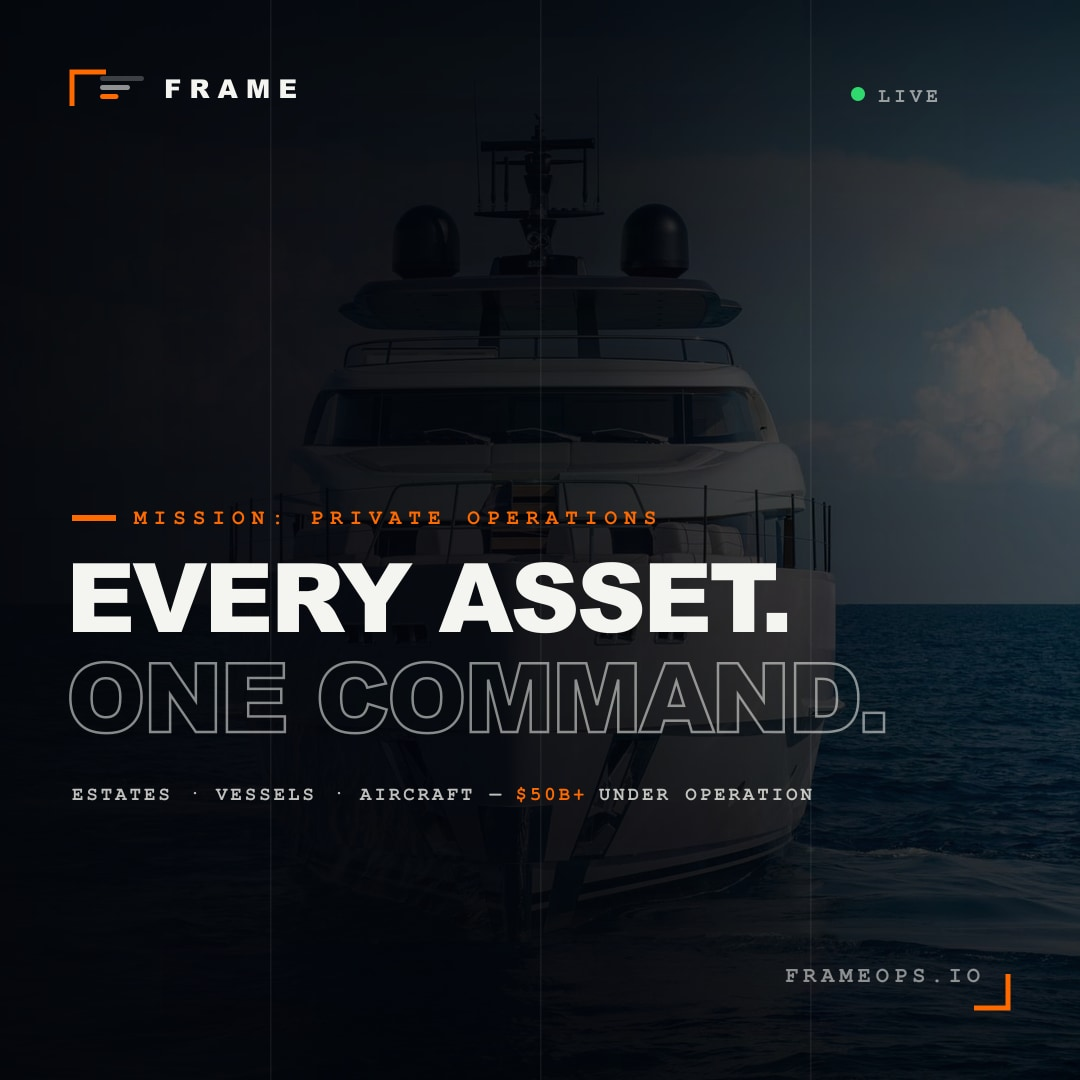
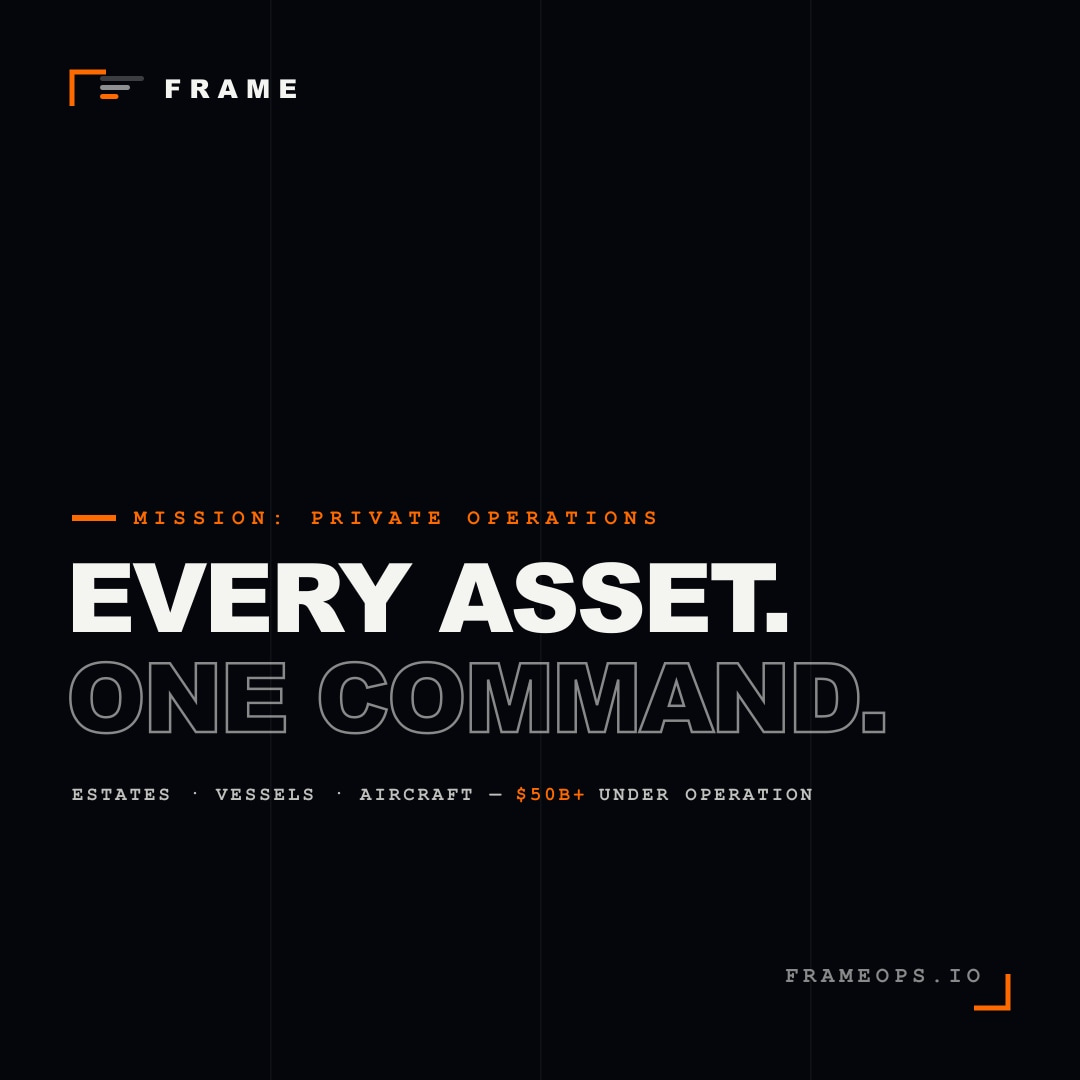
feat: all-black OG images — pure void, F-mark, headline block

Changed region(s): [[0.4583, 0.0, 1.0, 0.9167], [0.9472, 0.9167, 0.9778, 0.9472]]

diff --git a/scripts/generate-og-images.js b/scripts/generate-og-images.js
@@ -36,27 +36,13 @@ function makeSVG(w, h, L) {
   const bStroke = 5;
 
   return Buffer.from(`<svg width="${w}" height="${h}" viewBox="0 0 ${w} ${h}" xmlns="http://www.w3.org/2000/svg">
-  <defs>
-    <linearGradient id="gL" x1="0" y1="0" x2="1" y2="0">
-      <stop offset="0%"   stop-color="${VOID}" stop-opacity="0.96"/>
-      <stop offset="55%"  stop-color="${VOID}" stop-opacity="0.80"/>
-      <stop offset="100%" stop-color="${VOID}" stop-opacity="0.30"/>
-    </linearGradient>
-    <linearGradient id="gB" x1="0" y1="0" x2="0" y2="1">
-      <stop offset="0%"   stop-color="${VOID}" stop-opacity="0.55"/>
-      <stop offset="35%"  stop-color="${VOID}" stop-opacity="0"/>
-      <stop offset="100%" stop-color="${VOID}" stop-opacity="0.62"/>
-    </linearGradient>
-  </defs>
-
-  <!-- gradient overlays -->
-  <rect width="${w}" height="${h}" fill="url(#gL)"/>
-  <rect width="${w}" height="${h}" fill="url(#gB)"/>
+  <!-- void black canvas -->
+  <rect width="${w}" height="${h}" fill="${VOID}"/>
 
   <!-- faint vertical gridlines -->
-  <rect x="${w * 0.25}" y="0" width="1.5" height="${h}" fill="white" fill-opacity="0.06"/>
-  <rect x="${w * 0.50}" y="0" width="1.5" height="${h}" fill="white" fill-opacity="0.06"/>
-  <rect x="${w * 0.75}" y="0" width="1.5" height="${h}" fill="white" fill-opacity="0.06"/>
+  <rect x="${w * 0.25}" y="0" width="1.5" height="${h}" fill="white" fill-opacity="0.05"/>
+  <rect x="${w * 0.50}" y="0" width="1.5" height="${h}" fill="white" fill-opacity="0.05"/>
+  <rect x="${w * 0.75}" y="0" width="1.5" height="${h}" fill="white" fill-opacity="0.05"/>
 
   <!-- HUD corner brackets -->
   <path d="M ${pad} ${pad + bracket} V ${pad} H ${pad + bracket}" fill="none" stroke="${ORANGE}" stroke-width="${bStroke}"/>
@@ -69,12 +55,6 @@ function makeSVG(w, h, L) {
   <text x="${pad + 92}" y="${pad + 26}"
     font-family="${DISPLAY}" font-size="${brandSize}" font-weight="900" letter-spacing="${Math.round(brandSize * 0.30)}"
     fill="${WHITE}">FRAME</text>
-
-  <!-- live dot, top right -->
-  <circle cx="${w - pad - 150}" cy="${pad + 22}" r="7" fill="${GREEN}"/>
-  <text x="${w - pad - 130}" y="${pad + 30}"
-    font-family="${MONO}" font-size="20" font-weight="bold" letter-spacing="4"
-    fill="rgba(244,244,240,0.6)">LIVE</text>
 
   <!-- ── eyebrow ── -->
   <rect x="${pad}" y="${eyebrowY - 9}" width="44" height="6" fill="${ORANGE}"/>
@@ -128,11 +108,9 @@ const LAYOUT_1080 = {
 async function render(outFile, w, h, layout) {
   const overlay = makeSVG(w, h, layout);
 
-  await sharp(PHOTO)
-    .resize({ width: w, height: h, fit: 'cover', position: 'center' })
-    .modulate({ brightness: 0.72, saturation: 0.82 })
-    .composite([{ input: overlay, blend: 'over' }])
-    .jpeg({ quality: 92, mozjpeg: true })
+  await sharp(overlay, { density: 72 })
+    .flatten({ background: VOID })
+    .jpeg({ quality: 94, mozjpeg: true })
     .toFile(outFile);
 
   console.log(`✓  ${outFile}  (${w}×${h})`);
